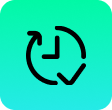
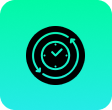
Desktop Optimisation - I
Changelog:
- Changed favicon from bootstrap to string offers
- Fixed the Empty space below Footer
- Made the website as close to the design as possible (Increased Gradient line, Hero font sizes)
- Changed fonts to Rubik from Jost & Open Sans
- Changed the "Real time tracking" icon under "Why join us section"
- Fixed the header to be as close to the design as possible
- Changed column classes for Join as publisher and advertiser floating div in hero (Big to smaller)

Changed region(s): [[0.2411, 0.2182, 0.7768, 0.7909]]

diff --git a/assets/css/style.css b/assets/css/style.css
@@ -18,7 +18,7 @@ html, body {
 }
 
 .gradient-line{
-  width: 136px;
+  width: 202px;
   border: none;
   height: 7px;
   background:var(--gradient);
@@ -54,7 +54,7 @@ ul {
 
 
 body {
-  font-family: "Open Sans", sans-serif;
+  font-family: "Rubik", sans-serif;
   color: #444444;
 }
 
@@ -71,7 +71,7 @@ h3,
 h4,
 h5,
 h6 {
-  font-family: "Jost", sans-serif;
+  font-family: "Rubik", sans-serif;
 }
 
 .container-w {
@@ -83,8 +83,9 @@ h6 {
 .hero-img {
   background-color: var(--bg);
   padding: 59px 21px;
-  width: 100%;
-  border-radius: 31px;
+  width: 90%;
+  margin: auto;
+  border-radius: 40px;
   border: 0.5px solid white;
 }
 
@@ -254,12 +255,14 @@ h6 {
 
 .navbar a,
 .navbar a:focus {
+  text-transform: uppercase;
+  
   display: flex;
   align-items: center;
   justify-content: space-between;
   padding: 15px 0 10px 30px;
   font-size: 15px;
-  font-weight: 500;
+  font-weight: 400;
   color: #fff;
   white-space: nowrap;
   transition: 0.3s;
@@ -288,7 +291,8 @@ h6 {
   font-size: 14px;
   border: 1px solid var(--bs-cyan);
   border-radius: 7px;
-  font-weight: 600;
+  text-transform: capitalize;
+  font-weight: 500;
 }
 
 .navbar .getstarted:hover,
@@ -509,18 +513,19 @@ h6 {
   padding-top: 72px;
 }
 
-#hero h1 {
-  margin: 0 0 10px 0;
-  font-size: 48px;
+#hero h1{
+  margin: 0 0 20px 0;
+  font-size: 64px;
   font-weight: 700;
-  line-height: 56px;
+  line-height: 76px;
   color: #fff;
 }
 
 #hero h2 {
   color: rgb(255 255 255);
+  margin-top: 10px;
   margin-bottom: 50px;
-  font-size: 24px;
+  font-size: 28px;
 }
 
 /* #hero .btn-get-started {
@@ -4017,8 +4022,8 @@ tbody.collapse.in {
 }
 
 .line{
-  height: 153px;
-  border-right: 1px solid #fff;
+  height: 190px;
+  border-right: 2px solid #fff;
   text-align: center;
   width: 50%;
 }
@@ -4370,6 +4375,7 @@ padding-bottom: 20px;
   color: #fff;
   font-size:24px;
 }
+
 .nav-link:focus, .nav-link:hover {
   color: #c4c4c4;
 }

diff --git a/admin/assets/css/style.css b/admin/assets/css/style.css
@@ -1771,7 +1771,8 @@ h1, .h1, h2, .h2, h3, .h3, h4, .h4, h5, .h5, h6, .h6 {
   margin-top: 0;
   margin-bottom: 0.5rem;
   font-weight: 500;
-  line-height: 1.2; }
+  
+}
 
 h1, .h1 {
   font-size: calc(1.375rem + 1.5vw); }
@@ -14849,4 +14850,11 @@ select.form-control {
 
 .blog-b{
   margin-bottom:20px;
+}
+
+.blog-image{
+  width: 400px;
+  height: 100px;
+  background-position: center center;
+  background-repeat: no-repeat;
 }

diff --git a/assets/css/slider.css b/assets/css/slider.css
@@ -1,6 +1,6 @@
 #multi-sli{
   margin: 0px 0px;
-  padding-bottom: 76px;
+  padding-bottom: 0px;
   background: rgba(19, 200, 197, 0.1);
 }
 

diff --git a/index.php b/index.php
@@ -26,7 +26,7 @@ include 'important-link.php';
                 <div class="col-lg-6 order-1 order-lg-2" data-aos="zoom-in" data-aos-delay="200">
                     <div class="b-h">
                         <div class="row">
-                            <div class="col-lg-4 text-center">
+                            <div class="col-lg-2 text-center">
                                 <img src="assets/img/paper-plane1.png" class="img-fluid " alt="">
                             </div>
                             <div class="col-lg-8 " data-aos="zoom-in" data-aos-delay="200">
@@ -47,7 +47,7 @@ include 'important-link.php';
                 <div class="col-lg-5 order-1 order-lg-2" data-aos="zoom-in" data-aos-delay="200">
                     <div class="b-h">
                         <div class="row">
-                            <div class="col-lg-4 text-center " d>
+                            <div class="col-lg-2 text-center " d>
                                 <img src="assets/img/adwords1.png" class="img-fluid" alt="">
                             </div>
                             <div class="col-lg-8 order-1 order-lg-2" >

diff --git a/blog-view.php b/blog-view.php
@@ -26,8 +26,8 @@
                                                         aria-hidden="true"></i></a>
                                             </div>
                                         </div>
-                                        <div class="col-lg-4 col-sm-6 text-center img-r" data-aos="zoom-in" data-aos-delay="200">
-                                            <img src="assets/img/blog1.png" class="img-fluid animated" alt="">
+                                        <div class="col-lg-4 col-sm-6 " data-aos="zoom-in" data-aos-delay="200">
+                                            <img src="assets/img/blog1.png" class="blog-image animated" alt="" style="object-fit: cover;">
                                         </div>
 
                                     </div>

diff --git a/dashboard/header.php b/dashboard/header.php
@@ -15,7 +15,7 @@
     <!-- Google Fonts -->
     <script src='https://kit.fontawesome.com/a076d05399.js' crossorigin='anonymous'></script>
     <link
-        href="https://fonts.googleapis.com/css?family=Open+Sans:300,300i,400,400i,600,600i,700,700i|Jost:300,300i,400,400i,500,500i,600,600i,700,700i|Poppins:300,300i,400,400i,500,500i,600,600i,700,700i"
+        href="https://fonts.googleapis.com/css?family=Open+Sans:300,300i,400,400i,600,600i,700,700i|Jost:300,300i,400,400i,500,500i,600,600i,700,700i|Poppins:300,300i,400,400i,500,500i,600,600i,700,700i|Rubik:300,300i,400,400i,500,500i,600,600i,700,700i,800,800i,900,900i"
         rel="stylesheet">
 
     <link rel="stylesheet" href="https://cdnjs.cloudflare.com/ajax/libs/font-awesome/4.7.0/css/font-awesome.min.css">

diff --git a/important-link.php b/important-link.php
@@ -16,7 +16,7 @@
   <!-- Google Fonts -->
   <script src='https://kit.fontawesome.com/a076d05399.js' crossorigin='anonymous'></script>
   <link
-    href="https://fonts.googleapis.com/css?family=Open+Sans:300,300i,400,400i,600,600i,700,700i|Jost:300,300i,400,400i,500,500i,600,600i,700,700i|Poppins:300,300i,400,400i,500,500i,600,600i,700,700i"
+    href="https://fonts.googleapis.com/css?family=Open+Sans:300,300i,400,400i,600,600i,700,700i|Jost:300,300i,400,400i,500,500i,600,600i,700,700i|Poppins:300,300i,400,400i,500,500i,600,600i,700,700i|Rubik:300,300i,400,400i,500,500i,600,600i,700,700i,800,800i,900,900i"
     rel="stylesheet">
 
   <link rel="stylesheet" href="https://cdnjs.cloudflare.com/ajax/libs/font-awesome/4.7.0/css/font-awesome.min.css">

diff --git a/footer.php b/footer.php
@@ -3,6 +3,7 @@
 
 
 <!-- ======= Footer ======= -->
+</div>
     <footer id="footer">
 
 
@@ -28,7 +29,7 @@
                                         <br>
                                    
                                 </div>
-                            </div>
+                            
                         </div>
                     </div>
 
